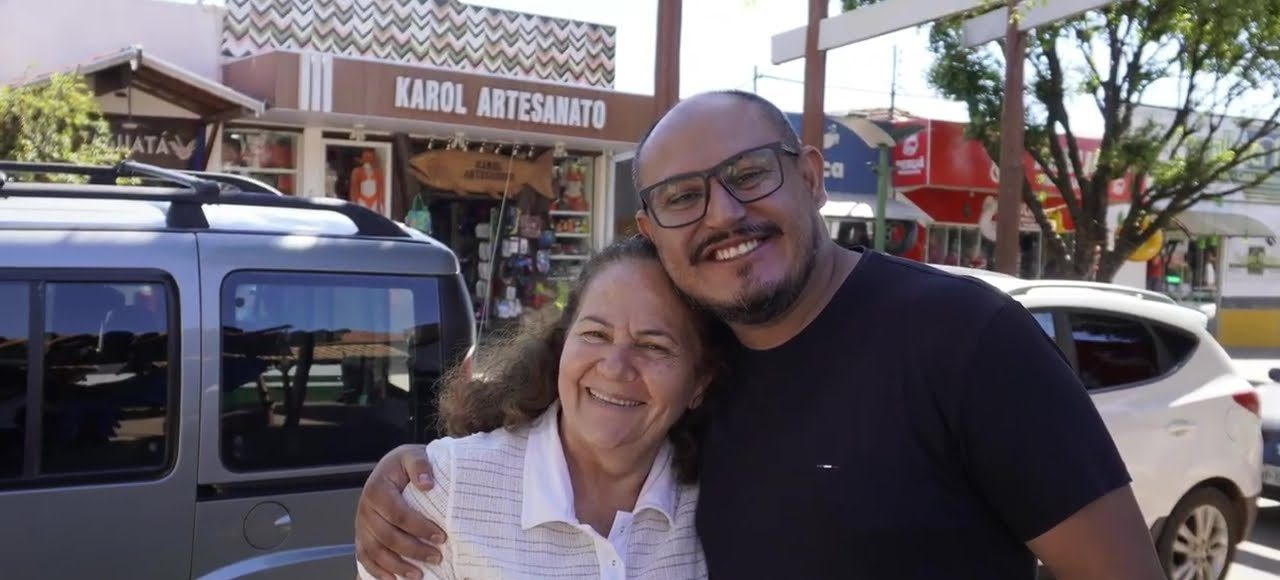
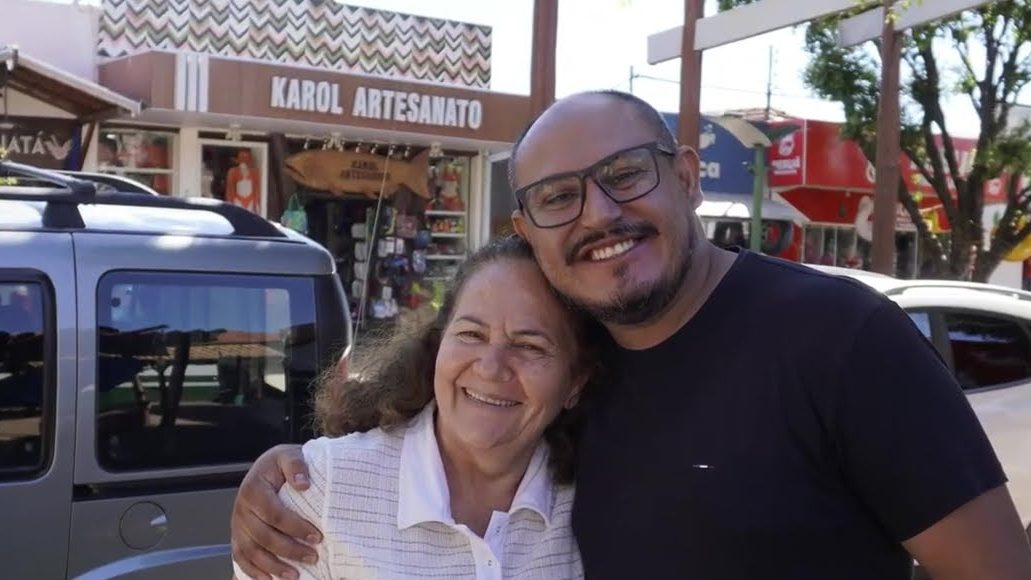
Museu da Pessoa em listagem estilo YouTube
- cada video: miniatura 16:9 com duracao, avatar do Museu, titulo, canal e descricao
- 3 colunas no desktop, 2 no tablet e 1 no celular
- previa no hover so aparece quando o player avisa que esta tocando (API de
  mensagens do YouTube), desenhada maior e reduzida para os botoes do YouTube
  ficarem pequenos; sem loop/playlist e sem a legenda automatica por cima da gravada
- miniaturas recortadas em 16:9, sem a legenda gravada e sem o selo do canal
- remove os ouvintes de teclado e de mensagens ao desmontar

diff --git a/index.html b/index.html
@@ -140,11 +140,8 @@
     #prestacao-intro .pi-img { position: relative !important; inset: auto !important; height: 44vh !important; display: block !important; }
     #prestacao-intro .pi-shade { height: 44vh !important; bottom: auto !important; }
     #prestacao-intro .pi-txt { position: static !important; padding: 30px 22px 46px !important; }
-    .mp-grid { grid-template-columns: repeat(2, 1fr) !important; grid-auto-rows: calc((100vw - 4px) / 2) !important; }
-    .mp-card { grid-column: span 1 !important; grid-row: span 1 !important; }
-    .mp-card:first-child { grid-column: span 2 !important; }
-    #mp-acervo { scroll-margin-top: 71px !important; }
-    .mp-card .mp-sum { display: none !important; }
+    .mp-lista { grid-template-columns: 1fr !important; gap: 30px !important; padding: 36px 16px 0 !important; scroll-margin-top: 71px !important; }
+    .mp-desc { -webkit-line-clamp: 4 !important; }
     #prestacao { padding: 72px 22px 84px !important; }
     .pc-top { grid-template-columns: 1fr !important; gap: 22px !important; align-items: start !important; }
     #pc-num { font-size: clamp(56px, 19vw, 92px) !important; }
@@ -269,19 +266,29 @@
     :is(.gov-tab, .gov-panel, .gov-doc, .gov-membro, .gov-mandato, .gov-kpi):hover::after { animation: ondaCorre 2.4s linear infinite; }
     .pc-valor:hover .pc-linha, .gov-bar:hover .gov-bar-track { animation: ondaCorre 3.2s linear infinite; }
   }
-  .mp-card { position: relative; overflow: hidden; background: #0A1A22; cursor: pointer; min-width: 0; }
-  .mp-card img.mp-thumb { width: 100%; height: 100%; object-fit: cover; display: block; transition: transform .8s cubic-bezier(.2,.7,.2,1), filter .5s ease; }
-  .mp-card:hover img.mp-thumb { transform: scale(1.04); filter: brightness(0.72); }
-  .mp-card { container-type: size; }
-  .mp-card:focus-visible { outline: 3px solid #7FD9D3; outline-offset: -3px; }
-  .mp-card:focus-visible .mp-play { opacity: 1; transform: translate(-50%,-50%) scale(1); }
-  /* prévia do YouTube cobre o card inteiro (16:9 recortado), sem faixas pretas no card quadrado */
-  .mp-card iframe.mp-hover { position: absolute; top: 50%; left: 50%; width: max(100cqw, 177.78cqh); height: max(100cqh, 56.25cqw); transform: translate(-50%,-50%); border: 0; pointer-events: none; z-index: 1; }
-  .mp-meta { position: absolute; left: 0; right: 0; bottom: 0; z-index: 2; padding: clamp(16px,1.6vw,26px); background: linear-gradient(to top, rgba(4,20,28,0.92) 0%, rgba(4,20,28,0.55) 45%, transparent 100%); pointer-events: none; }
-  .mp-sum { max-height: 0; opacity: 0; overflow: hidden; transition: max-height .5s ease, opacity .4s ease, margin-top .4s ease; margin-top: 0; }
-  .mp-card:hover .mp-sum { max-height: 160px; opacity: 1; margin-top: 10px; }
+  /* Museu da Pessoa: acervo em listagem estilo YouTube (miniatura 16:9, duração, título, canal e descrição) */
+  .mp-lista { display: grid; grid-template-columns: repeat(3, minmax(0, 1fr)); gap: clamp(34px, 3.6vw, 52px) clamp(16px, 1.8vw, 28px); max-width: 1440px; margin: 0 auto; padding: clamp(44px, 6vw, 84px) clamp(16px, 3vw, 48px) 0; scroll-margin-top: 82px; }
+  @media (max-width: 1000px) { .mp-lista { grid-template-columns: repeat(2, minmax(0, 1fr)); } }
+  .mp-card { cursor: pointer; min-width: 0; outline: none; }
+  .mp-tela { position: relative; aspect-ratio: 16 / 9; border-radius: 12px; overflow: hidden; background: #0A1A22; isolation: isolate; }
+  .mp-card img.mp-thumb { position: absolute; inset: 0; width: 100%; height: 100%; object-fit: cover; display: block; transition: transform .8s cubic-bezier(.2,.7,.2,1), filter .5s ease; }
+  .mp-card:hover img.mp-thumb { transform: scale(1.04); filter: brightness(0.8); }
+  /* o player é desenhado 2,5x maior e reduzido: os botões que o YouTube mostra nos primeiros segundos ficam bem pequenos */
+  .mp-card iframe.mp-hover { position: absolute; left: 0; top: 0; width: 250%; height: 250%; transform: scale(0.4); transform-origin: 0 0; border: 0; pointer-events: none; z-index: 1; opacity: 0; transition: opacity .45s ease; }
+  .mp-card iframe.mp-hover.mp-tocando { opacity: 1; }
   .mp-play { position: absolute; top: 50%; left: 50%; transform: translate(-50%,-50%) scale(.9); z-index: 2; opacity: 0; transition: opacity .4s ease, transform .4s ease; pointer-events: none; }
-  .mp-card:hover .mp-play { opacity: 1; transform: translate(-50%,-50%) scale(1); }
+  .mp-card:hover .mp-play, .mp-card:focus-visible .mp-play { opacity: 1; transform: translate(-50%,-50%) scale(1); }
+  .mp-tela:has(iframe.mp-tocando) .mp-play { opacity: 0; }
+  .mp-dur { position: absolute; right: 8px; bottom: 8px; z-index: 3; padding: 3px 6px; border-radius: 4px; background: rgba(0,0,0,0.8); color: #fff; font-family: 'Space Grotesk', sans-serif; font-size: 12px; font-weight: 500; line-height: 1.2; letter-spacing: .02em; font-variant-numeric: tabular-nums; transition: opacity .3s ease; }
+  .mp-tela:has(iframe.mp-tocando) .mp-dur { opacity: 0; }
+  .mp-card:focus-visible .mp-tela { outline: 3px solid #2C6E49; outline-offset: 3px; }
+  .mp-info { display: flex; align-items: flex-start; gap: 12px; margin-top: 14px; }
+  .mp-avatar { flex: none; width: 36px; height: 36px; border-radius: 50%; background: #0A2531; display: grid; place-items: center; }
+  .mp-avatar img { width: 24px; height: auto; display: block; }
+  .mp-txt { min-width: 0; }
+  .mp-nome { font-family: 'Space Grotesk', sans-serif; font-feature-settings: 'ss01','ss02','ss03','ss05'; font-weight: 700; font-size: clamp(17px, 1.3vw, 20px); line-height: 1.25; color: #23261E; display: -webkit-box; -webkit-line-clamp: 2; -webkit-box-orient: vertical; overflow: hidden; }
+  .mp-canal-nome { margin-top: 4px; font-size: 13px; line-height: 1.4; color: #5E6B57; }
+  .mp-desc { margin: 8px 0 0; font-size: 14px; line-height: 1.55; color: #4A5243; display: -webkit-box; -webkit-line-clamp: 3; -webkit-box-orient: vertical; overflow: hidden; }
 
   /* ===== GOVERNANÇA E TRANSPARÊNCIA — abas Governança / Documentos / Financeiro =====
      O estado da aba vem do aria-selected (setado pelo JS em _setupTransparencia). */
@@ -708,29 +715,50 @@
         </div>
       </div>
 
-      <div id="mp-acervo" class="mp-grid" style="display: grid; grid-template-columns: repeat(4, 1fr); grid-auto-rows: calc((100vw - 12px) / 4); grid-auto-flow: dense; gap: 4px; background: #FCFAF4; margin-top: 4px; scroll-margin-top: 82px;">
-        <article class="mp-card" data-yt="kCMThSoKNlU" role="button" tabindex="0" aria-label="Assistir à história de Maria Aparecida" style="grid-column: span 2; grid-row: span 2;">
-          <img class="mp-thumb" src="assets/museu/mp-maria-aparecida.jpg" alt="" loading="lazy" decoding="async">
-          <div class="mp-play" aria-hidden="true"><svg width="66" height="66" viewBox="0 0 66 66" fill="none"><circle cx="33" cy="33" r="32" stroke="rgba(255,255,255,0.85)" stroke-width="1.5"/><path d="M27 24l16 9-16 9V24z" fill="#fff"/></svg></div>
-          <div class="mp-meta">
-            <div class="mp-nome" style="font-family: 'Space Grotesk', sans-serif; font-feature-settings: 'ss01','ss02','ss03','ss05'; font-size: clamp(20px,1.9vw,30px); font-weight: 700; color: #fff; line-height: 1.12;">Maria Aparecida</div>
-            <div class="mp-sum" style="font-size: 14px; line-height: 1.6; color: #CFE6EF; max-width: 42ch;">Artesã, transforma a malha de camisetas que iriam para o lixo em cestos coloridos e conta como a associação apoia seu pequeno negócio.</div>
+      <div id="mp-acervo" class="mp-lista">
+        <article class="mp-card" data-yt="kCMThSoKNlU" role="button" tabindex="0" aria-label="Assistir à história de Maria Aparecida (3:35)">
+          <div class="mp-tela">
+            <img class="mp-thumb" src="assets/museu/mp-maria-aparecida.jpg" alt="" loading="lazy" decoding="async">
+            <div class="mp-play" aria-hidden="true"><svg width="58" height="58" viewBox="0 0 66 66" fill="none"><circle cx="33" cy="33" r="32" fill="rgba(4,20,28,0.35)" stroke="rgba(255,255,255,0.9)" stroke-width="1.5"/><path d="M27 24l16 9-16 9V24z" fill="#fff"/></svg></div>
+            <span class="mp-dur" aria-hidden="true">3:35</span>
+          </div>
+          <div class="mp-info">
+            <span class="mp-avatar" aria-hidden="true"><img src="assets/B2-8.png" alt="" loading="lazy" decoding="async"></span>
+            <div class="mp-txt">
+              <div class="mp-nome">Maria Aparecida</div>
+              <div class="mp-canal-nome">Museu da Pessoa · Eco Criativos</div>
+              <p class="mp-desc">Artesã, transforma a malha de camisetas que iriam para o lixo em cestos coloridos e conta como a associação apoia seu pequeno negócio.</p>
+            </div>
           </div>
         </article>
-        <article class="mp-card" data-yt="pfxRTcIjgtY" role="button" tabindex="0" aria-label="Assistir à história de Leonida Jacques" style="grid-column: span 2; grid-row: span 1;">
-          <img class="mp-thumb" src="assets/museu/mp-leonida-jacques.jpg" alt="" loading="lazy" decoding="async">
-          <div class="mp-play" aria-hidden="true"><svg width="52" height="52" viewBox="0 0 66 66" fill="none"><circle cx="33" cy="33" r="32" stroke="rgba(255,255,255,0.85)" stroke-width="1.5"/><path d="M27 24l16 9-16 9V24z" fill="#fff"/></svg></div>
-          <div class="mp-meta">
-            <div class="mp-nome" style="font-family: 'Space Grotesk', sans-serif; font-feature-settings: 'ss01','ss02','ss03','ss05'; font-size: clamp(17px,1.3vw,22px); font-weight: 700; color: #fff; line-height: 1.12;">Leonida Jacques</div>
-            <div class="mp-sum" style="font-size: 13px; line-height: 1.55; color: #CFE6EF; max-width: 46ch;">Artesã do crochê em Bonito-MS, compartilha sua trajetória e como a associação apoia sua produção.</div>
+        <article class="mp-card" data-yt="pfxRTcIjgtY" role="button" tabindex="0" aria-label="Assistir à história de Leonida Jacques (3:43)">
+          <div class="mp-tela">
+            <img class="mp-thumb" src="assets/museu/mp-leonida-jacques.jpg" alt="" loading="lazy" decoding="async">
+            <div class="mp-play" aria-hidden="true"><svg width="58" height="58" viewBox="0 0 66 66" fill="none"><circle cx="33" cy="33" r="32" fill="rgba(4,20,28,0.35)" stroke="rgba(255,255,255,0.9)" stroke-width="1.5"/><path d="M27 24l16 9-16 9V24z" fill="#fff"/></svg></div>
+            <span class="mp-dur" aria-hidden="true">3:43</span>
+          </div>
+          <div class="mp-info">
+            <span class="mp-avatar" aria-hidden="true"><img src="assets/B2-8.png" alt="" loading="lazy" decoding="async"></span>
+            <div class="mp-txt">
+              <div class="mp-nome">Leonida Jacques</div>
+              <div class="mp-canal-nome">Museu da Pessoa · Eco Criativos</div>
+              <p class="mp-desc">Artesã do crochê em Bonito-MS, compartilha sua trajetória e como a associação apoia sua produção.</p>
+            </div>
           </div>
         </article>
-        <article class="mp-card" data-yt="KPJY1yBBhHo" role="button" tabindex="0" aria-label="Assistir à história de Jesulina Surubi" style="grid-column: span 2; grid-row: span 1;">
-          <img class="mp-thumb" src="assets/museu/mp-jesulina-surubi.jpg" alt="" loading="lazy" decoding="async">
-          <div class="mp-play" aria-hidden="true"><svg width="52" height="52" viewBox="0 0 66 66" fill="none"><circle cx="33" cy="33" r="32" stroke="rgba(255,255,255,0.85)" stroke-width="1.5"/><path d="M27 24l16 9-16 9V24z" fill="#fff"/></svg></div>
-          <div class="mp-meta">
-            <div class="mp-nome" style="font-family: 'Space Grotesk', sans-serif; font-feature-settings: 'ss01','ss02','ss03','ss05'; font-size: clamp(17px,1.3vw,22px); font-weight: 700; color: #fff; line-height: 1.12;">Jesulina Surubi</div>
-            <div class="mp-sum" style="font-size: 13px; line-height: 1.55; color: #CFE6EF; max-width: 46ch;">Dona Jesulina conta sua história e como a associação apoia sua produção de artesanato.</div>
+        <article class="mp-card" data-yt="KPJY1yBBhHo" role="button" tabindex="0" aria-label="Assistir à história de Jesulina Surubi (3:51)">
+          <div class="mp-tela">
+            <img class="mp-thumb" src="assets/museu/mp-jesulina-surubi.jpg" alt="" loading="lazy" decoding="async">
+            <div class="mp-play" aria-hidden="true"><svg width="58" height="58" viewBox="0 0 66 66" fill="none"><circle cx="33" cy="33" r="32" fill="rgba(4,20,28,0.35)" stroke="rgba(255,255,255,0.9)" stroke-width="1.5"/><path d="M27 24l16 9-16 9V24z" fill="#fff"/></svg></div>
+            <span class="mp-dur" aria-hidden="true">3:51</span>
+          </div>
+          <div class="mp-info">
+            <span class="mp-avatar" aria-hidden="true"><img src="assets/B2-8.png" alt="" loading="lazy" decoding="async"></span>
+            <div class="mp-txt">
+              <div class="mp-nome">Jesulina Surubi</div>
+              <div class="mp-canal-nome">Museu da Pessoa · Eco Criativos</div>
+              <p class="mp-desc">Dona Jesulina conta sua história e como a associação apoia sua produção de artesanato.</p>
+            </div>
           </div>
         </article>
       </div>
@@ -2418,8 +2446,12 @@ class Component extends DCLogic {
           frame.tabIndex = -1;
           frame.setAttribute('aria-hidden', 'true');
           frame.setAttribute('allow', 'autoplay; encrypted-media');
-          frame.src = 'https://www.youtube-nocookie.com/embed/' + id + '?autoplay=1&mute=1&controls=0&loop=1&playlist=' + id + '&modestbranding=1&playsinline=1&rel=0';
-          card.insertBefore(frame, card.querySelector('.mp-meta'));
+          frame.src = 'https://www.youtube-nocookie.com/embed/' + id + '?autoplay=1&mute=1&controls=0&modestbranding=1&playsinline=1&rel=0&iv_load_policy=3&disablekb=1&fs=0&enablejsapi=1&origin=' + encodeURIComponent(location.origin);
+          frame.addEventListener('load', () => {
+            try { frame.contentWindow.postMessage(JSON.stringify({ event: 'listening', id: id, channel: 'widget' }), 'https://www.youtube-nocookie.com'); } catch (e) {}
+          });
+          const tela = card.querySelector('.mp-tela') || card;
+          tela.insertBefore(frame, tela.querySelector('.mp-play'));
         }, 180);
       };
       const stop = () => { clearTimeout(timer); if (frame) { frame.remove(); frame = null; } };
@@ -2447,6 +2479,23 @@ class Component extends DCLogic {
     fs.addEventListener('click', (e) => { if (e.target === fs) close(); });
     this._mpKey = (e) => { if (e.key === 'Escape' && fs.getAttribute('aria-hidden') === 'false') close(); };
     window.addEventListener('keydown', this._mpKey);
+    // a prévia só aparece quando o player avisa que começou a tocar (estado 1);
+    // antes disso fica a miniatura, sem o carregamento e os botões do YouTube por cima
+    this._mpMsg = (e) => {
+      if (e.origin !== 'https://www.youtube-nocookie.com' && e.origin !== 'https://www.youtube.com') return;
+      let d = e.data;
+      if (typeof d === 'string') { try { d = JSON.parse(d); } catch (err) { return; } }
+      if (!d || typeof d !== 'object') return;
+      const estado = d.event === 'onStateChange' ? d.info : (d.event === 'infoDelivery' && d.info ? d.info.playerState : undefined);
+      if (estado !== 1) return;
+      document.querySelectorAll('iframe.mp-hover').forEach((f) => {
+        if (f.contentWindow !== e.source || f.classList.contains('mp-tocando')) return;
+        f.classList.add('mp-tocando');
+        // o vídeo já tem legenda gravada; a legenda automática do YouTube (ligada no modo sem som) ficaria por cima
+        ['captions', 'cc'].forEach((m) => { try { f.contentWindow.postMessage(JSON.stringify({ event: 'command', func: 'unloadModule', args: [m] }), 'https://www.youtube-nocookie.com'); } catch (err) {} });
+      });
+    };
+    window.addEventListener('message', this._mpMsg);
     this._mpClose = close;
   }
 
@@ -2718,6 +2767,8 @@ class Component extends DCLogic {
     if (this._lbKey) window.removeEventListener('keydown', this._lbKey);
     if (this._govHash) window.removeEventListener('hashchange', this._govHash);
     if (this._onAncora) document.removeEventListener('click', this._onAncora);
+    if (this._mpKey) window.removeEventListener('keydown', this._mpKey);
+    if (this._mpMsg) window.removeEventListener('message', this._mpMsg);
     if (this._lbRelayout) window.removeEventListener('resize', this._lbRelayout);
     document.body.style.overflow = '';
     if (this._blobUrl) { try { URL.revokeObjectURL(this._blobUrl); } catch (e) {} }
@@ -2801,11 +2852,8 @@ class Component extends DCLogic {
     '  #prestacao-intro .pi-img{position:relative!important;inset:auto!important;height:44vh!important;display:block!important;}',
     '  #prestacao-intro .pi-shade{height:44vh!important;bottom:auto!important;}',
     '  #prestacao-intro .pi-txt{position:static!important;padding:30px 22px 46px!important;}',
-    '  .mp-grid{grid-template-columns:repeat(2,1fr)!important;grid-auto-rows:calc((100vw - 4px) / 2)!important;}',
-    '  .mp-card{grid-column:span 1!important;grid-row:span 1!important;}',
-    '  .mp-card:first-child{grid-column:span 2!important;}',
-    '  #mp-acervo{scroll-margin-top:71px!important;}',
-    '  .mp-card .mp-sum{display:none!important;}',
+    '  .mp-lista{grid-template-columns:1fr!important;gap:30px!important;padding:36px 16px 0!important;scroll-margin-top:71px!important;}',
+    '  .mp-desc{-webkit-line-clamp:4!important;}',
     '  #prestacao{padding:72px 22px 84px!important;}',
     '  .pc-top{grid-template-columns:1fr!important;gap:22px!important;align-items:start!important;}',
     '  #pc-num{font-size:clamp(56px,19vw,92px)!important;}',
